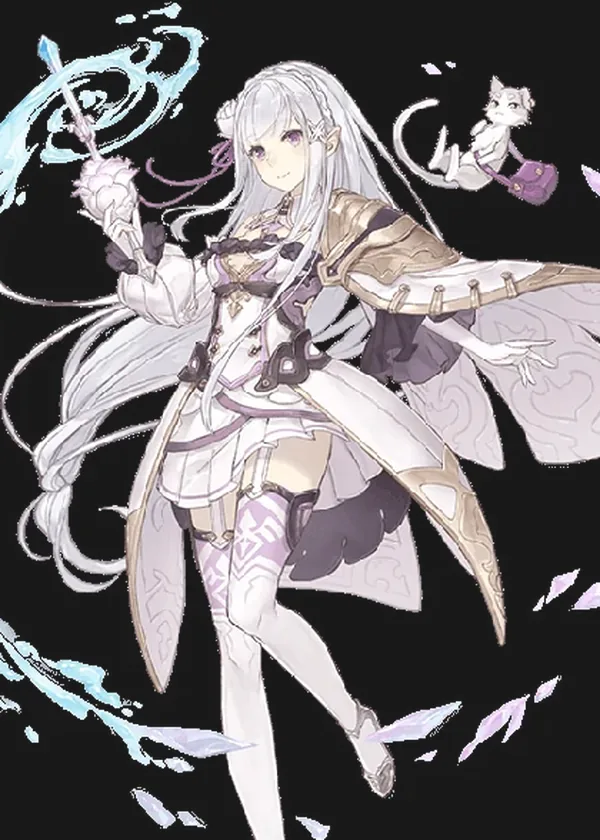
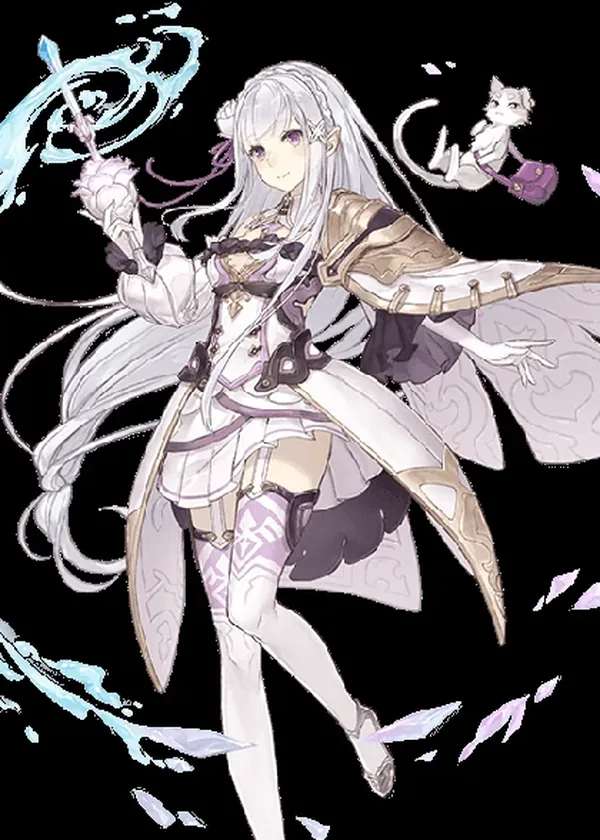
Revert "卡面明度收极端落地: make-cards.py 加 levels/压亮两路变换(knee115/215,gain0.85), 57张 std52.4→40.2, 最暗37→103、最亮230→217, 只动两端25张"
This reverts commit f6d6e5c0a70b8e1a411224fe6b992b6a8b3f6e9b.

diff --git a/tools/cards/make-cards.py b/tools/cards/make-cards.py
@@ -36,17 +36,6 @@ CARD_W, CARD_H = 600, 840
 QUALITY = 82
 AUTO_T = 45          # 内容判据：与四角底色差异大于它才算「内容」
 
-# ---- 明度收极端（2026-09-26，docs/pending.md「卡面明度散度」方案①）----
-# 只收两个尾巴、不动中段：L < DARK_KNEE 的抬、L > BRIGHT_KNEE 的压。两边都是
-# f(knee)=knee、斜率 1−gain 的连续单调映射 —— 「只动极端」是结构性的，不是阈值硬跳
-# （硬跳会让 114.9 与 115.1 的两张卡在墙上差出一截）。
-# L 的口径 = scripts/deck-edit.py 的 card_lum（灰度 → 60×84 双线性 → 均值），
-# 与管理页「明度体检」同一把尺。为什么不是全局拉平：lum12-norm 那版会把 #33 银霜 /
-# #03 花信洗成白雾，判读已否；这里只把 57 张的两个尾巴收回来（37→103 起、230→217 止）。
-DARK_KNEE, DARK_GAIN = 115.0, 0.85
-BRIGHT_KNEE, BRIGHT_GAIN = 215.0, 0.85
-HILITE_Y, HILITE_DESAT = 225.0, 0.35   # 亮卡「极轻中性底」：近白像素向自身亮度灰混的强度
-
 
 def load():
     with open(MANIFEST, encoding="utf-8") as f:
@@ -164,58 +153,11 @@ def gradient(size, top, bottom):
     return Image.fromarray(np.repeat(arr, w, axis=1).astype(np.uint8), "RGB")
 
 
-def face_lum(img):
-    """与 scripts/deck-edit.py 的 card_lum 同款：灰度 → 60×84 双线性 → 均值（管理页那把尺）。"""
-    return float(np.asarray(img.convert("L").resize((60, 84), Image.BILINEAR), dtype="float32").mean())
-
-
-def lum_target(L):
-    """这张卡的均值该落到哪：只收两端，中段原样返回。"""
-    if L < DARK_KNEE:
-        return L + DARK_GAIN * (DARK_KNEE - L)
-    if L > BRIGHT_KNEE:
-        return L - BRIGHT_GAIN * (L - BRIGHT_KNEE)
-    return L
-
-
-def apply_lum(face):
-    """把一张成卡的均值收进区间（常数段注释见文件头）。返回 (新 face, 旧 L, 新 L)。"""
-    L = face_lum(face)
-    target = lum_target(L)
-    if abs(target - L) < 1.0:
-        return face, L, L
-    rgb = np.asarray(face, dtype=np.float32)
-    if L > BRIGHT_KNEE:
-        # 亮卡：线性乘（luma 线性 → 均值精确落标、色相不动），再做「极轻中性底」——
-        # 近白像素向自身亮度灰混，高调卡的纸底不再带色偏，贴白底页面时融不进去。
-        out = np.clip(rgb * (target / max(L, 1.0)), 0, 255)
-        luma = out[..., 0] * 0.299 + out[..., 1] * 0.587 + out[..., 2] * 0.114
-        m = luma > HILITE_Y
-        if m.any():
-            for ch in range(3):
-                v = out[..., ch]
-                v[m] = v[m] * (1 - HILITE_DESAT) + luma[m] * HILITE_DESAT
-    else:
-        # 暗卡：线性抬黑场（levels，白点锚 255）—— out = RGB·a + b, a = 1 − b/255。
-        # 为什么不是伽马：miku-01 初始之音是「大面积纯黑 + 亮主体」的双峰图，
-        # 乘性变换抬不动纯黑（0×s=0），gamma 为凑均值会把亮部打曝，且解在 60×84 上、
-        # 用在全分辨率上会差出 32 点。线性变换动黑护白，均值恒等 mean = a·L + b →
-        # 闭式解 b = (target−L)·255/(255−L)，模型=实测，没有任何降采样交换误差；
-        # y' = y + b(1−y/255) 恒 ≤ 255，也不会削顶。副作用是暗部往灰走一点
-        # （纯黑→b 的中性灰），这正是「抬中间调」本身该有的样子。
-        b = (target - L) * 255.0 / (255.0 - L)
-        a = 1.0 - b / 255.0
-        out = np.clip(rgb * a + b, 0, 255)
-    new = Image.fromarray(out.astype(np.uint8), "RGB")
-    return new, L, face_lum(new)
-
-
 def main():
     cards = load()
     out_dir = os.path.join(ROOT, "assets", "images", "cards")
     os.makedirs(out_dir, exist_ok=True)
     faces, total = [], 0
-    tuned = []
     for c in cards:
         src = os.path.join(ROOT, c["src"])
         if not os.path.exists(src):
@@ -244,9 +186,6 @@ def main():
         else:
             crop = crop.convert("RGB")
         face = crop.resize((CARD_W, CARD_H), Image.LANCZOS)
-        face, L0, L1 = apply_lum(face)          # 明度收极端：只收尾巴（见 DARK_KNEE 注释）
-        if L1 != L0:
-            tuned.append(c["series"])
         dest = os.path.join(ROOT, "assets", c["image"])   # image 是相对 assets/ 的路径
         face.save(dest, "WEBP", quality=QUALITY, method=6)
         kb = os.path.getsize(dest) // 1024
@@ -256,16 +195,9 @@ def main():
         head = f"头顶 {b2[1] / CARD_H * 100:4.1f}%" if b2 else "头顶  n/a"
         if b2 and b2[1] < CARD_H * 0.015:
             print(f"  ⚠ {c['image']} 的头顶几乎贴着卡的上边缘（{b2[1]}px）—— 看一眼取景")
-        lum = f"  L {L0:.0f}→{L1:.0f}" if L1 != L0 else ""
         print(f"  {c['image']:26s} {face.size[0]}x{face.size[1]}  {kb:3d} KB  {c['style']:6s} "
-              f"{c.get('name') or c['series']}  ({note}, {head}){lum}")
+              f"{c.get('name') or c['series']}  ({note}, {head})")
     print(f"共 {len(faces)} 张，合计 {total} KB")
-    # 明度对账（deck-edit.card_lum 同口径）：收完的 min/std 要落在「无黑洞、无白洞」区间，
-    # 具体卡面的观感仍以接触表 + 管理页「明度体检」的判读为准。
-    Ls = [face_lum(f) for f, _ in faces]
-    if Ls:
-        print(f"明度体检：min {min(Ls):.1f} / max {max(Ls):.1f} / std {np.std(Ls):.1f}"
-              f"（收极端 {len(tuned)} 张：{'、'.join(tuned)}）")
 
     # 清单里有、但没出图的（源图缺失在上面逐条报过，这里兜住别的失败路径）
     missing = [c["image"] for c in cards
